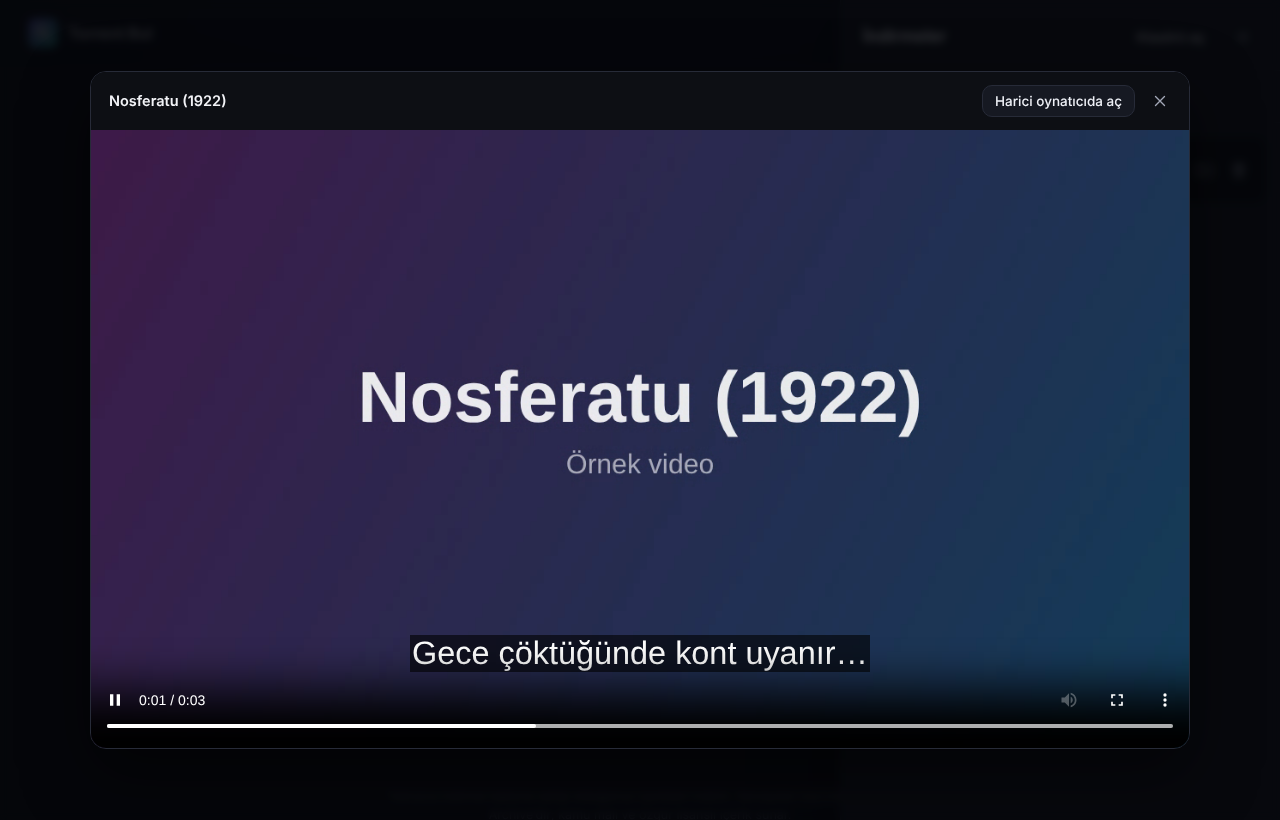
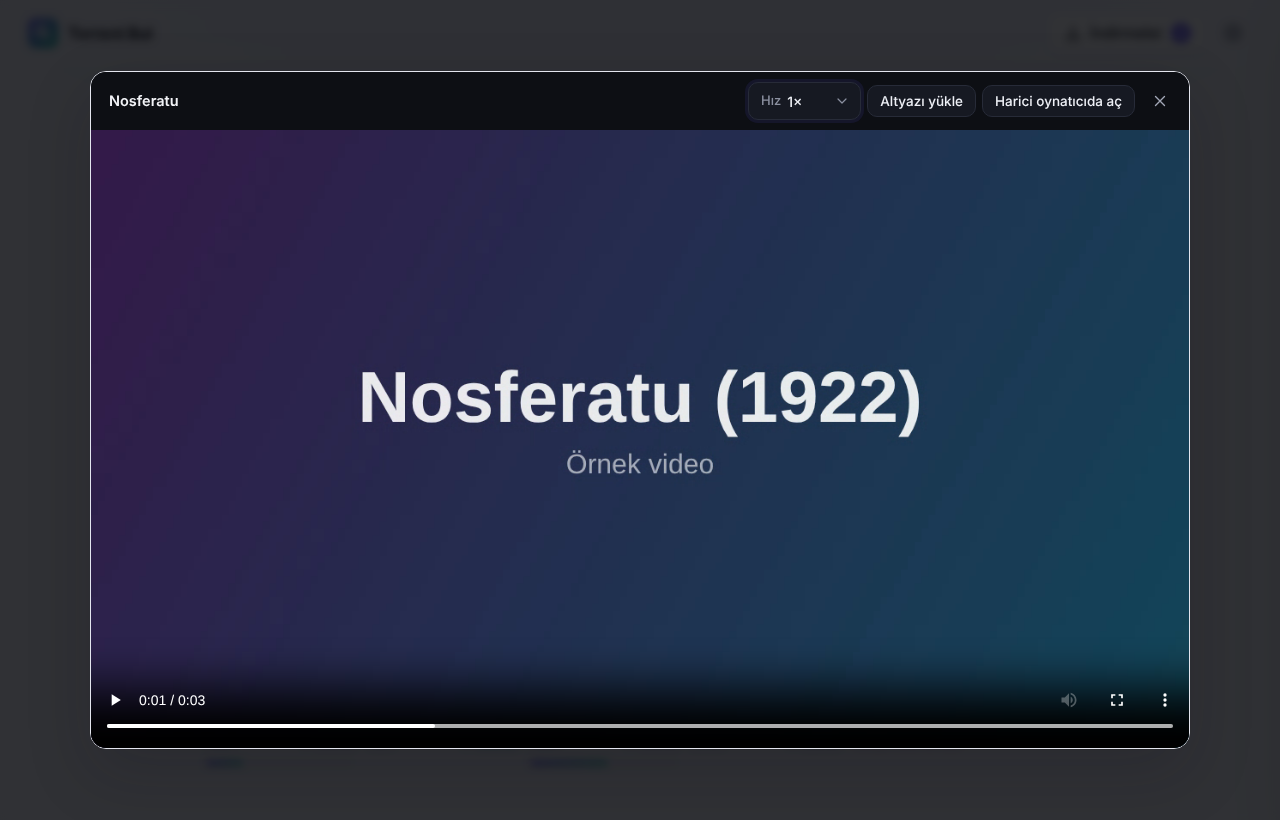
Faz 7: yayın hijyeni (davranış değişmeden)
Depoda lisans dosyası, CI ve paket ikonu yoktu; kurulu uygulama
tarayıcıdaki magnet bağlantılarını açamıyor, ikinci kez açılınca ikinci
bir pencere/sunucu başlatıyordu.

- LICENSE (MIT, kaptanoguz) ve README'ye lisans bağlantısı.
- .github/workflows/test.yml: push ve pull_request'te Node 20 ile
  npm ci + npm test. Electron ikilisi indirilmiyor ve yerel modüller
  Electron'a göre yeniden derlenmiyor; testler düz Node ile koşuyor.
- build/icon.png (512) mevcut icon.svg'den; electron-builder yapılandırması
  ikon yolunu gösteriyor.
- Electron: tek örnek kilidi, ikinci açılışta pencere öne geliyor.
  magnet: protokolü yalnızca paketli sürümde kaydediliyor (npm start
  işletim sistemini kirletmesin). argv / open-url ile gelen magnet,
  saf ve test edilen magnetFromArgv ile ayrıştırılıp indirmelere ekleniyor.
- İsteğe bağlı closeToTray (varsayılan kapalı): açıksa pencere kapatılınca
  gizleniyor, tepside "Aç" ve "Çıkış". Varsayılan kapatma davranışı aynı.
- README: özellik listesi yeni davranışlara göre güncellendi (dosya
  seçimi, kütüphane, kuyruk, oynatıcı), docs/ altındaki dört ekran
  görüntüsü yenilendi. Yasal uyarı aynen duruyor.

Claude-Session: https://claude.ai/code/session_01AymLfxAtTPx6kYKee8CYCW

diff --git a/electron/main.js b/electron/main.js
@@ -1,14 +1,71 @@
-import { app, BrowserWindow, shell, nativeTheme } from 'electron';
+import { app, BrowserWindow, Menu, Tray, nativeImage, shell, nativeTheme } from 'electron';
+import path from 'node:path';
+import { fileURLToPath } from 'node:url';
 import { startServer } from '../src/server.js';
+import { magnetFromArgv } from '../src/magnet.js';
 
+const here = path.dirname(fileURLToPath(import.meta.url));
 let server;
+let win = null;
+let tray = null;
+let quitting = false;
+const pendingMagnets = []; // sunucu hazır olmadan gelen bağlantılar
+
+// Tek örnek: ikinci açılış (ör. tarayıcıda magnet'e tıklamak) mevcut pencereye gelir.
+if (!app.requestSingleInstanceLock()) {
+  app.quit();
+} else {
+  app.on('second-instance', (_e, argv) => {
+    const magnet = magnetFromArgv(argv);
+    if (magnet) addMagnet(magnet);
+    showWindow();
+  });
+  // macOS bağlantıyı argv yerine open-url ile verir (uygulama açılmadan da gelebilir).
+  app.on('open-url', (e, url) => {
+    e.preventDefault();
+    const magnet = magnetFromArgv([url]);
+    if (magnet) addMagnet(magnet);
+  });
+  // Geliştirmede (npm start) protokol kaydı yapılmaz; yoksa her çalıştırma işletim sistemini kirletir.
+  if (app.isPackaged) app.setAsDefaultProtocolClient('magnet');
+
+  app.whenReady().then(async () => {
+    await createWindow();
+    const first = magnetFromArgv(process.argv);
+    if (first) addMagnet(first);
+  });
+}
+
+function addMagnet(magnet) {
+  if (!server) return void pendingMagnets.push(magnet);
+  server.addDownload({ magnet, source: 'Magnet bağlantısı' }).catch((err) => console.error('[magnet]', err.message));
+  showWindow();
+}
+
+function showWindow() {
+  if (!win) return void (app.isReady() && createWindow());
+  if (win.isMinimized()) win.restore();
+  win.show();
+  win.focus();
+}
+
+function ensureTray() {
+  if (tray) return;
+  tray = new Tray(nativeImage.createFromPath(path.join(here, 'tray.png')));
+  tray.setToolTip('Torrent Bul');
+  tray.setContextMenu(Menu.buildFromTemplate([
+    { label: 'Aç', click: showWindow },
+    { label: 'Çıkış', click: () => { quitting = true; app.quit(); } },
+  ]));
+  tray.on('click', showWindow);
+}
 
 async function createWindow() {
   server ??= await startServer({
     dataDir: app.getPath('userData'),
     openPath: (p) => shell.openPath(p),
   });
-  const win = new BrowserWindow({
+  win = new BrowserWindow({
     width: 1180,
     height: 800,
     minWidth: 760,
@@ -27,13 +84,22 @@ async function createWindow() {
   win.webContents.on('will-navigate', (e, url) => {
     if (!url.startsWith(server.url)) { e.preventDefault(); shell.openExternal(url); }
   });
+  // İsteğe bağlı: kapatınca tepsiye gizlen. Varsayılan davranış (gerçekten kapat) değişmez.
+  win.on('close', (e) => {
+    if (quitting || !server?.getSettings().closeToTray) return;
+    e.preventDefault();
+    ensureTray();
+    win.hide();
+  });
+  win.on('closed', () => { win = null; });
   await win.loadURL(server.url);
+  for (const magnet of pendingMagnets.splice(0)) addMagnet(magnet);
 }
 
-app.whenReady().then(createWindow);
-app.on('activate', () => { if (BrowserWindow.getAllWindows().length === 0) createWindow(); });
+app.on('activate', () => { if (BrowserWindow.getAllWindows().length === 0) createWindow(); else showWindow(); });
 app.on('window-all-closed', () => { if (process.platform !== 'darwin') app.quit(); });
 app.on('before-quit', async (e) => {
+  quitting = true;
   if (!server) return;
   e.preventDefault();
   const s = server;

diff --git a/test/release.test.js b/test/release.test.js
@@ -1,0 +1,45 @@
+import test from 'node:test';
+import assert from 'node:assert/strict';
+import fs from 'node:fs';
+import os from 'node:os';
+import path from 'node:path';
+import { magnetFromArgv } from '../src/magnet.js';
+import { createSettingsStore } from '../src/settings.js';
+
+const HASH = 'c12fe1c06bba254a9dc9f519b335aa7c1367a88a';
+
+test('komut satırından gelen magnet bulunur', () => {
+  // Windows: "Torrent Bul.exe" --bayrak "magnet:?..."; Linux: AppImage yolu ve argümanlar.
+  assert.equal(magnetFromArgv(['C:\\Program Files\\Torrent Bul\\Torrent Bul.exe', '--allow-file-access', `magnet:?xt=urn:btih:${HASH}&dn=Film`]), `magnet:?xt=urn:btih:${HASH}&dn=Film`);
+  assert.equal(magnetFromArgv(['/opt/torrent-bul', `"magnet:?xt=urn:btih:${HASH}"`]), `magnet:?xt=urn:btih:${HASH}`);
+  assert.equal(magnetFromArgv(['electron', '.']), null);
+  assert.equal(magnetFromArgv(['magnet:?dn=hash-yok']), null);
+  assert.equal(magnetFromArgv(['https://ornek.com/magnet:?xt=urn:btih:' + HASH]), null);
+  assert.equal(magnetFromArgv([42, null]), null);
+});
+
+test('tepsiye küçültme isteğe bağlı ve varsayılan kapalı', () => {
+  const file = path.join(fs.mkdtempSync(path.join(os.tmpdir(), 'torrent-bul-rel-')), 'settings.json');
+  fs.writeFileSync(file, JSON.stringify({ downloadDir: '/eski' }));
+  const store = createSettingsStore(file);
+  assert.equal(store.get().closeToTray, false);
+  store.update({ closeToTray: true });
+  assert.equal(store.get().closeToTray, true);
+  store.update({ closeToTray: 'evet' });
+  assert.equal(store.get().closeToTray, true);
+});
+
+test('yayın dosyaları yerinde: lisans, CI iş akışı, ikon', () => {
+  const root = path.join(path.dirname(new URL(import.meta.url).pathname), '..');
+  assert.match(fs.readFileSync(path.join(root, 'LICENSE'), 'utf8'), /^MIT License\n\nCopyright \(c\) \d{4} kaptanoguz/);
+  const pkg = JSON.parse(fs.readFileSync(path.join(root, 'package.json'), 'utf8'));
+  assert.equal(pkg.license, 'MIT');
+  assert.ok(fs.existsSync(path.join(root, pkg.build.icon)));
+  const png = fs.readFileSync(path.join(root, pkg.build.icon));
+  assert.equal(png.readUInt32BE(16), 512); // genişlik
+  assert.equal(png.readUInt32BE(20), 512); // yükseklik
+  const wf = fs.readFileSync(path.join(root, '.github/workflows/test.yml'), 'utf8');
+  assert.match(wf, /node-version: 20/);
+  assert.match(wf, /npm test/);
+  assert.match(wf, /ELECTRON_SKIP_BINARY_DOWNLOAD/);
+});

diff --git a/src/settings.js b/src/settings.js
@@ -15,6 +15,8 @@ export const DEFAULTS = {
   // KB/sn; 0 = sınırsız.
   downloadLimitKbps: 0,
   uploadLimitKbps: 0,
+  // Masaüstünde pencere kapatılınca tepside çalışmaya devam et (isteğe bağlı).
+  closeToTray: false,
 };
 
 const intIn = (v, min, max) => (Number.isFinite(Number(v)) && String(v).trim() !== '' ? Math.min(max, Math.max(min, Math.round(Number(v)))) : null);
@@ -30,6 +32,7 @@ export function createSettingsStore(file) {
       if (typeof patch.downloadDir === 'string' && patch.downloadDir.trim()) next.downloadDir = patch.downloadDir.trim();
       if (typeof patch.archiveEnabled === 'boolean') next.archiveEnabled = patch.archiveEnabled;
       if (typeof patch.seedAfterDone === 'boolean') next.seedAfterDone = patch.seedAfterDone;
+      if (typeof patch.closeToTray === 'boolean') next.closeToTray = patch.closeToTray;
       if (typeof patch.omdbApiKey === 'string') next.omdbApiKey = patch.omdbApiKey.trim();
       if (patch.maxActiveDownloads != null && intIn(patch.maxActiveDownloads, 1, 10) != null) next.maxActiveDownloads = intIn(patch.maxActiveDownloads, 1, 10);
       for (const k of ['downloadLimitKbps', 'uploadLimitKbps']) {

diff --git a/public/app.js b/public/app.js
@@ -1101,6 +1101,7 @@ $('settings-btn').addEventListener('click', async () => {
   $('set-archive').checked = s.archiveEnabled !== false;
   $('set-omdb').value = s.omdbApiKey || '';
   $('set-seed').checked = s.seedAfterDone === true;
+  $('set-tray').checked = s.closeToTray === true;
   $('set-max').value = s.maxActiveDownloads;
   $('set-down').value = s.downloadLimitKbps;
   $('set-up').value = s.uploadLimitKbps;
@@ -1125,7 +1126,7 @@ $('settings').addEventListener('close', async () => {
   try {
     await api('settings', {
       method: 'PUT',
-      body: JSON.stringify({ downloadDir: $('set-dir').value, archiveEnabled: $('set-archive').checked, omdbApiKey: $('set-omdb').value, seedAfterDone: $('set-seed').checked, torznab,
+      body: JSON.stringify({ downloadDir: $('set-dir').value, archiveEnabled: $('set-archive').checked, omdbApiKey: $('set-omdb').value, seedAfterDone: $('set-seed').checked, closeToTray: $('set-tray').checked, torznab,
         maxActiveDownloads: Number($('set-max').value) || 1, downloadLimitKbps: Number($('set-down').value) || 0, uploadLimitKbps: Number($('set-up').value) || 0 }),
     });
     toast('Ayarlar kaydedildi');

diff --git a/public/index.html b/public/index.html
@@ -248,6 +248,12 @@
       <p class="hint field-row-hint">Fazla indirmeler sıraya girer, biri bitince sıradaki başlar. 0 hız sınırını kaldırır.</p>
 
       <label class="toggle">
+        <input type="checkbox" id="set-tray" />
+        <span class="toggle-ui" aria-hidden="true"></span>
+        <span><strong>Kapatınca tepside çalışsın</strong><small>Pencereyi kapatınca indirmeler sürer; tepsideki simgeden açıp çıkabilirsin. Yalnızca masaüstü uygulamasında.</small></span>
+      </label>
+
+      <label class="toggle">
         <input type="checkbox" id="set-seed" />
         <span class="toggle-ui" aria-hidden="true"></span>
         <span><strong>Biten indirmeleri paylaşmaya devam et</strong><small>TurkSeed gibi üyelikli sitelerde oranın (ratio) düşmesin diye. Dosyaları taşırsan paylaşım durur, hiçbir şey yeniden inmez.</small></span>

diff --git a/src/magnet.js b/src/magnet.js
@@ -1,0 +1,13 @@
+import { magnetInfoHash } from './downloads.js';
+
+// İşletim sistemi bir magnet bağlantısını uygulamaya komut satırı argümanı
+// (Windows/Linux) ya da open-url (macOS) ile verir. Argümanlar arasından geçerli
+// (btih içeren) ilk magnet'i bulur; yoksa null.
+export function magnetFromArgv(argv = []) {
+  for (const arg of argv) {
+    if (typeof arg !== 'string') continue;
+    const value = arg.trim().replace(/^["']|["']$/g, '');
+    if (/^magnet:\?/i.test(value) && magnetInfoHash(value)) return value;
+  }
+  return null;
+}

diff --git a/src/server.js b/src/server.js
@@ -265,6 +265,9 @@ export async function startServer({
   return {
     url: `http://${host}:${address.port}/`,
     token,
+    getSettings: () => settings.get(),
+    // Masaüstü uygulaması (ör. işletim sisteminden gelen magnet) için.
+    addDownload: (body) => downloads.add(body),
     async close() {
       await downloads.close();
       library.close();

diff --git a/README.md b/README.md
@@ -12,14 +12,19 @@ Torrent Bul; Windows, macOS ve Linux’ta çalışan sade bir masaüstü uygulam
 - **Sıralama ve süzme:** sonuçlar varsayılan olarak en yeni yıldan eskiye sıralanır. En eski, en yüksek puan, en popüler, türe göre ya da boyuta göre de sıralayabilir, **Tür** menüsüyle yalnızca istediğin türü gösterebilirsin. Seçimin hatırlanır.
 - **Puanlar:** Internet Archive kullanıcı puanı (10 üzerinden) gösterilir. Ayarlar’a ücretsiz bir [OMDb](https://www.omdbapi.com/apikey.aspx) anahtarı girersen film ve dizilerde IMDb puanı, tür ve afiş de görünür.
 - **+18 bölümü:** yetişkin içerik normal aramalarda gizlenir, yalnızca kategori menüsündeki **+18** bölümünde ve yaş onayından sonra görünür.
-- **Türkçe içerik önce:** (araç çubuğundan kapatılabilir) Türkçe olduğu anlaşılan sonuçlar (dil bilgisi, “Türkçe altyazılı”, “TR dublaj”, Türkçe karakterli başlıklar) listenin en üstüne çıkar. Diğer dillerdeki sonuçlar da altında listelenir.
+- **Türkçe içerik önce:** (araç çubuğundaki **Türkçe önce** anahtarıyla) Türkçe olduğu anlaşılan sonuçlar (dil bilgisi, “Türkçe altyazılı”, “TR dublaj”, Türkçe karakterli başlıklar) listenin en üstüne çıkar. Tek başına “TR” etiketi Türkçe sayılmaz. Diğer dillerdeki sonuçlar da altında listelenir; 1080p/4K sürümler öne, kamera kayıtları (CAM/TS) arkaya düşer.
+- **Lisans rozeti:** Internet Archive sonuçlarında lisans bilgisi varsa **CC** ya da **Kamu malı** rozeti görünür.
 - **Tek tıkla indirme:** ilerleme, hız, kalan süre ve bağlantı sayısı canlı görünür. Duraklat, devam et, klasörde göster.
-- **Kaldığı yerden devam:** uygulamayı kapatıp açınca yarım kalan indirmeler sürer.
+- **Dosya seçimi:** çok dosyalı bir torrentte (sezon paketi, örnek/ekstra dosyalı yayınlar) indirmeden önce hangi dosyaların ineceğini seçersin. En büyük video ve ona uyan (yoksa Türkçe) altyazı hazır işaretli gelir; tek dosyalı torrentler sormadan iner. Seçim kaydedilir, seçilmeyenler hiç inmez.
+- **Kuyruk ve hız sınırı:** aynı anda en fazla 3 indirme çalışır (Ayarlar’dan 1–10), fazlası **Sırada** bekler ve biri bitince başlar. İndirme ve yükleme hızını KB/sn olarak sınırlayabilirsin (0 = sınırsız).
+- **Kaldığı yerden devam:** uygulamayı kapatıp açınca yarım kalan indirmeler sürer. Ayarlar ve indirme listesi çökmeye karşı güvenli yazılır.
 - **Tamamlanan sekmesi:** biten indirmeler ayrı bir sekmeye taşınır. Bitince bildirim gelir. Biten dosyaları başka bir yere taşısan ya da silsen bile uygulama onları yeniden indirmez; istersen sonuçtaki **Tekrar indir** ile bilerek indirebilirsin.
 - **Bilgisayardaki .torrent dosyaları:** İndirmeler panelindeki **Torrent ekle** ile istediğin kadar `.torrent` dosyasını ya da bütün bir klasörü seç (veya pencereye sürükleyip bırak). Hepsi boyutlarıyla listelenir; istediklerini işaretleyip tek tıkla indir.
 - **Paylaşmaya devam (oran):** TurkSeed gibi üyelikli sitelerde oranın düşmesin diye Ayarlar’dan **Biten indirmeleri paylaşmaya devam et**’i aç. Dosyaları taşırsan paylaşım durur, yine hiçbir şey yeniden inmez.
-- **Dahili oynatıcı:** biten videoları tek tıkla izle; indirme sürerken bile izlemeye başlayabilirsin. Torrent içindeki altyazı (`.srt`, Türkçe olanlar öncelikli) kendiliğinden yüklenir. Desteklenmeyen formatlar (ör. AVI, HEVC) için **Harici oynatıcıda aç** düğmesi var.
-- **Magnet bağlantısı:** arama kutusuna bir `magnet:` bağlantısı yapıştırırsan doğrudan indirir.
+- **Kütüphanen:** biten her video ana sayfadaki **Kütüphanen** şeridinde afişi, yılı ve ilerleme çubuğuyla durur. Tıklayınca kaldığın yerden açılır; **İzlendi** olarak işaretleyebilirsin. İndirmeyi listeden kaldırsan da kütüphane kaydı durur; dosyayı taşıdıysan “dosya bulunamadı” yazar.
+- **Dahili oynatıcı:** videoları tek tıkla izle; indirme sürerken bile izlemeye başlayabilirsin. Torrent içindeki altyazı (`.srt`, Türkçe olanlar öncelikli) indirme bitmeden de yüklenir; **Altyazı yükle** ile bilgisayarındaki bir `.srt`/`.vtt` dosyasını da ekleyebilirsin. Oynatma hızı (0,75×–2×) hatırlanır. Tarayıcının açamadığı biçimler (MKV, AVI, HEVC/x265) için kartta nedeni yazar ve **Harici oynatıcıda aç** önerilir.
+- **Magnet bağlantısı:** arama kutusuna bir `magnet:` bağlantısı yapıştırırsan doğrudan indirir. Kurulu masaüstü uygulaması tarayıcıdaki magnet bağlantılarını da açar.
+- **Tepside çalışma (isteğe bağlı):** Ayarlar’dan açarsan pencereyi kapatınca indirmeler sürer; tepsideki simgeden açıp çıkabilirsin. Varsayılan olarak kapatmak uygulamayı kapatır.
 - **Açık ve koyu tema:** sistem ayarını takip eder.
 
 ![Sonuçlar](docs/sonuclar.png)
@@ -85,7 +90,7 @@ npm run dist:linux   # Linux AppImage
 npm test
 ```
 
-Testler; Türkçe öncelikli sıralamayı, Internet Archive ve Torznab sorgularını, ayarların saklanmasını ve yerel bir sunucudan web-seed’li bir torrent’in uçtan uca indirilmesini kontrol eder.
+Testler; Türkçe tespitini ve sıralamayı, Internet Archive ve Torznab sorgularını, durum dosyalarının güvenli yazılmasını, dosya seçimini, kütüphane ve izleme kaydını, kuyruğu ve yerel bir sunucudan web-seed’li torrent’lerin uçtan uca indirilmesini kontrol eder. Her push ve pull request’te GitHub Actions ile çalışır.
 
 Yapı:
 
@@ -93,9 +98,16 @@ Yapı:
 electron/main.js        Masaüstü penceresi
 bin/web.js              Tarayıcı modu
 src/server.js           Yerel API (yalnızca 127.0.0.1, oturum anahtarıyla korunur)
-src/downloads.js        WebTorrent indirme yöneticisi
+src/downloads.js        İndirme yöneticisi (dosya seçimi, kuyruk)
+src/engine.js           İndirme motoru adaptörü (WebTorrent)
+src/library.js          Kütüphane ve izleme kaydı
+src/jsonfile.js         Durum dosyaları için güvenli JSON yazma
 src/search.js           Kaynakları birleştirir
-src/ranking.js          Türkçe öncelikli sıralama
+src/ranking.js          Türkçe tespiti ve sıralama
 src/providers/          Internet Archive ve Torznab kaynakları
 public/                 Arayüz (HTML, CSS, JS)
 ```
+
+## Lisans
+
+[MIT](LICENSE)
